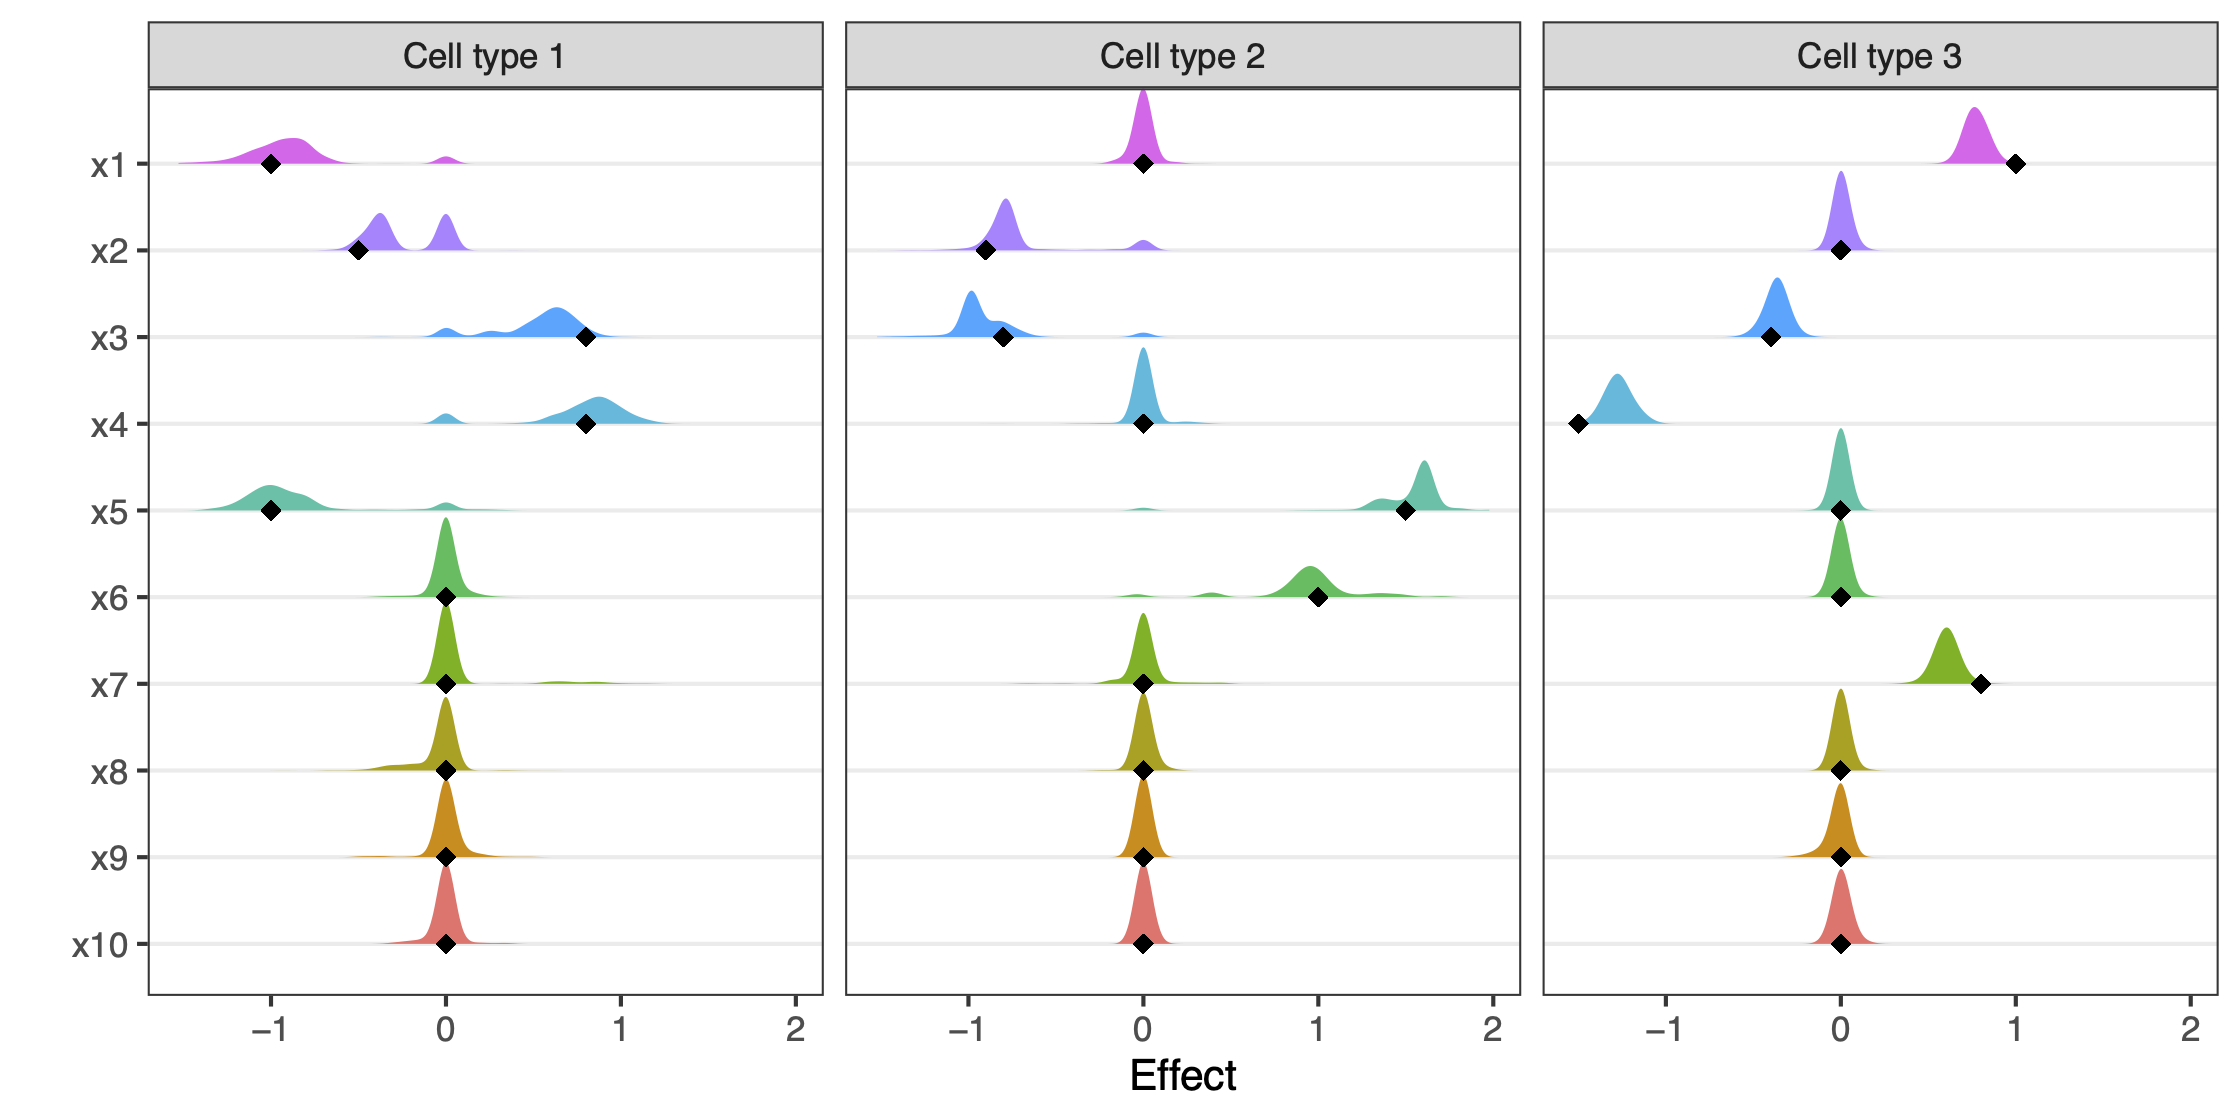
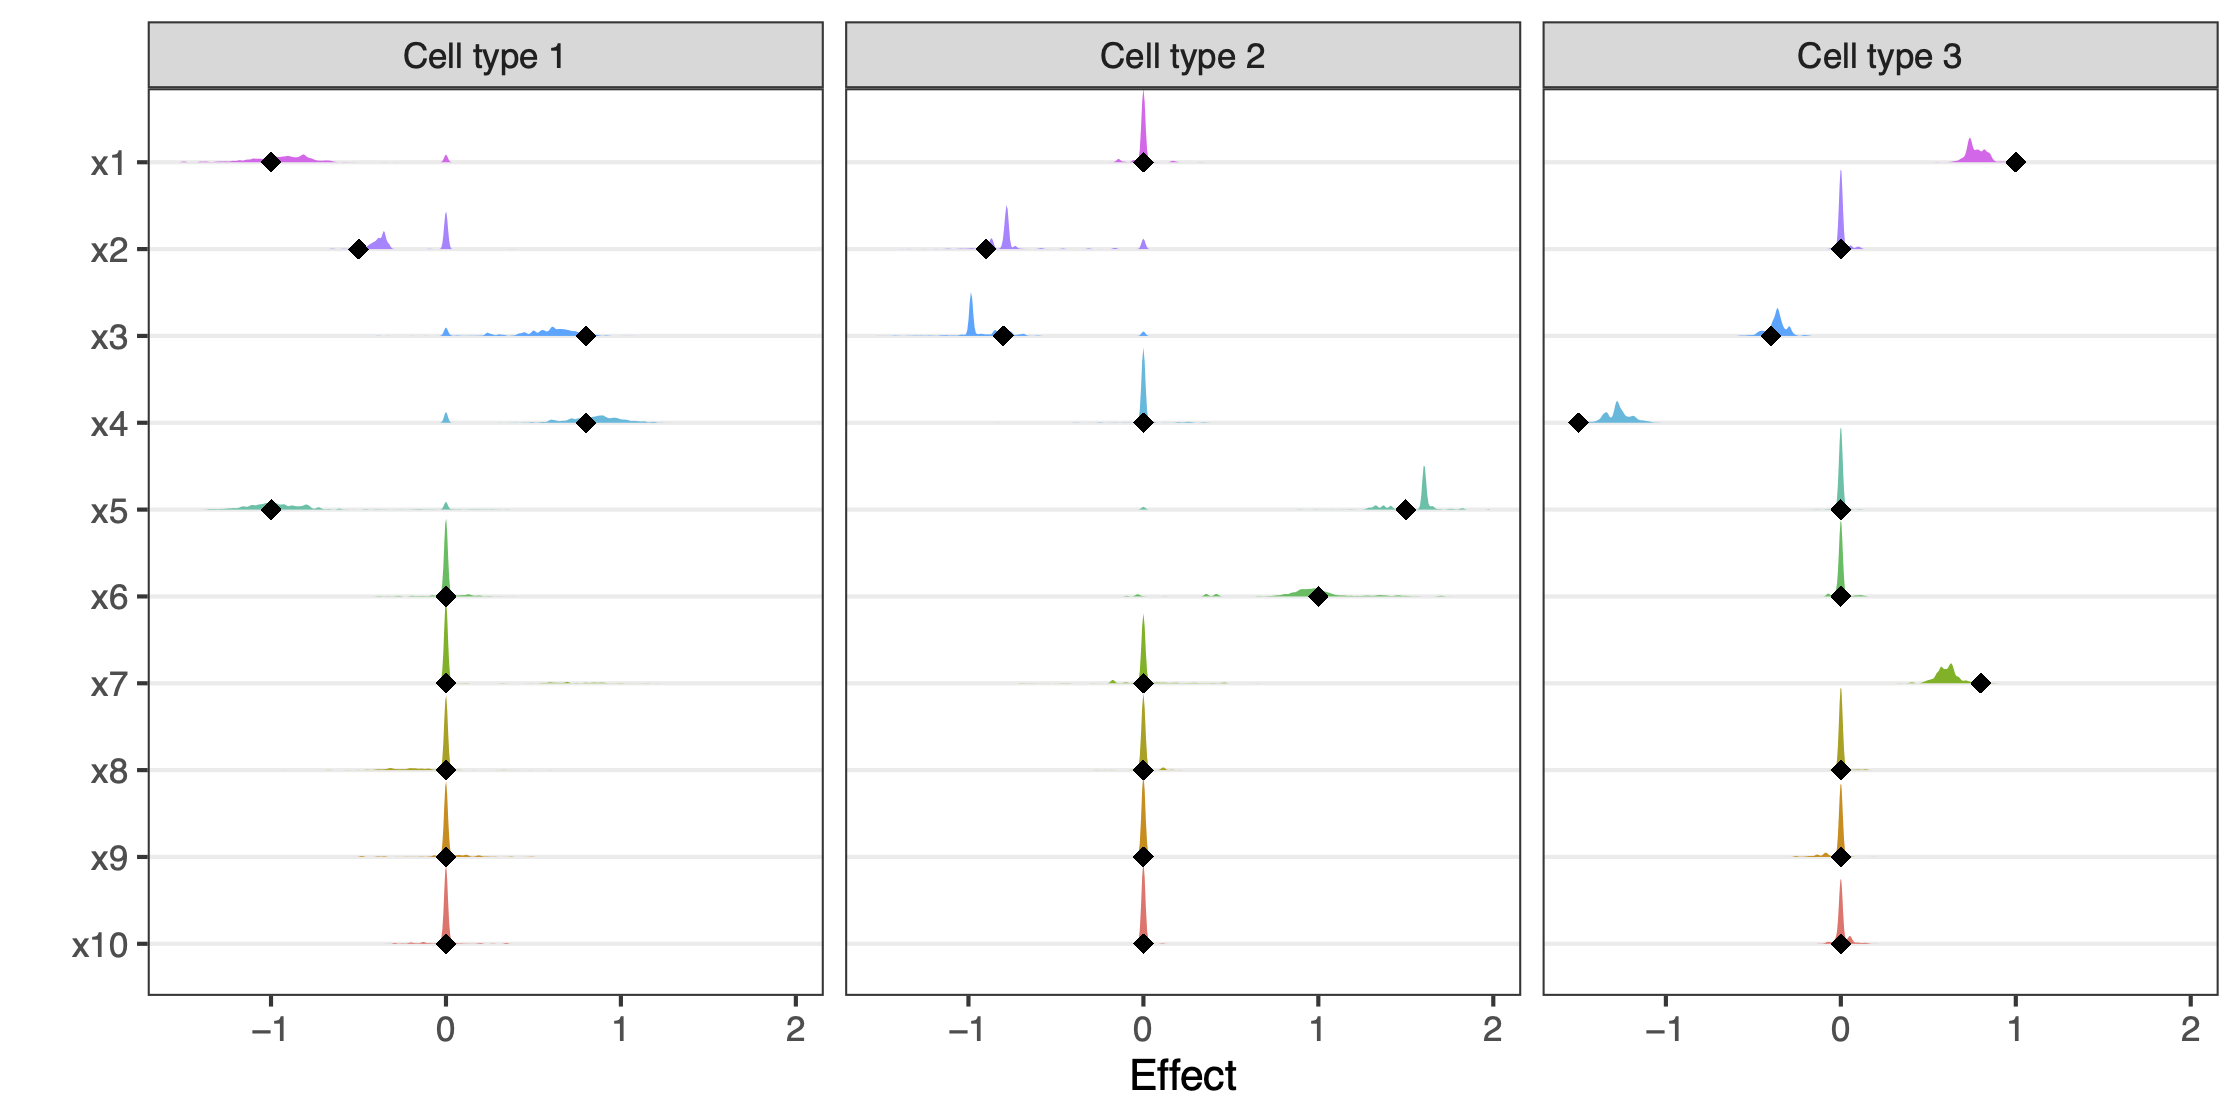
update `simData()` and README

diff --git a/README.md b/README.md
@@ -25,7 +25,7 @@ remotes::install_github("ocbe-uio/GPTCM")
 
 We provide insights about the parameter estimation of the proposed GPTCM by using Monte Carlo simulations. 
 We consider sample sizes of $n=200$. 
-Each sample/patient has two clinical covariates (i.e. one row of the clinical data matrix $\mathbf X_0\in \mathbb R^{n\times 2}$), and has cells belonging to $L=3$ tumor cell subtypes with each subtype consisting of $10$ cell-type-specific covariates (i.e. one row of data matrix $\mathbf X_l\in \mathbb R^{n\times 10}$, $l\in \{1,...,L\}$). 
+Each sample/patient has two clinical covariates (i.e. one row of the clinical data matrix $\mathbf X_0\in \mathbb R^{n\times 2}$), and has cells belonging to $L=3$ tumor cell subtypes with each subtype consisting of $10$ cell-type-specific covariates (i.e. one row of data matrix $\mathbf X_l\in \mathbb R^{n\times 10}$, $l\in \\{1,...,L\\}$). 
 Each sample also has tumor cell subtype proportions data (i.e. one row of the proportions data matrix $\mathbf p\in [0,1]^{n\times 10}$) 
 generated by $10$ cell-type-specific covariates based on the Dirichlet regression model. 
 Every covariate is generated independently from the standard normal distribution except the first clinical variable generated from the Bernoulli distribution. 
@@ -96,7 +96,7 @@ plotBrier(dat, datMCMC = fit,
 The following figure shows the posterior distributions of cell-type-specific effects associated with cell-type-specific progression with the black dimonds indicating true effects, and marginal posterior inclusion probabilities (mPIP) of Bayesian variable selection. 
 
 ```{r}
-plotCoeff(dat, datMCMC = fit, estimator = "beta", bandwidth = 0.05)
+plotCoeff(dat, datMCMC = fit, estimator = "beta", bandwidth = 0.01)
 plotCoeff(dat, datMCMC = fit, estimator = "gamma")
 ```
 

diff --git a/NEWS.md b/NEWS.md
@@ -1,3 +1,7 @@
+# GPTCM 1.0.1
+
+* In `simData()`, suppress intercept when simulating data based on the Cox model
+
 # GPTCM 1.0.0
 
 * First released version at `ocbe-uio` github
